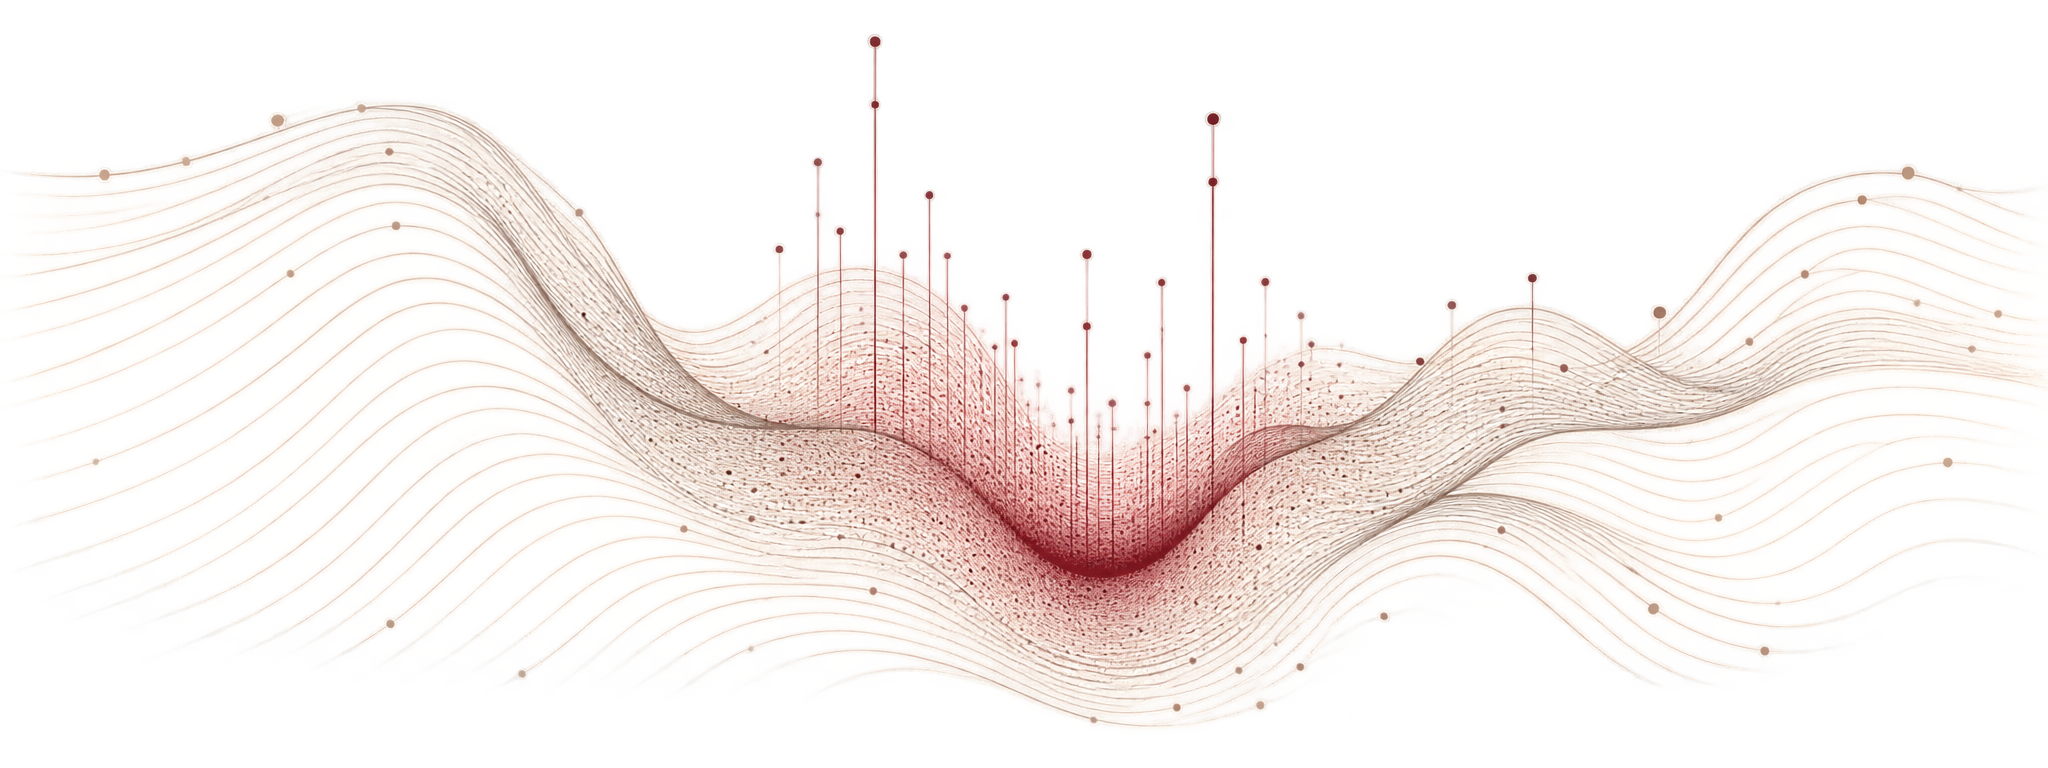
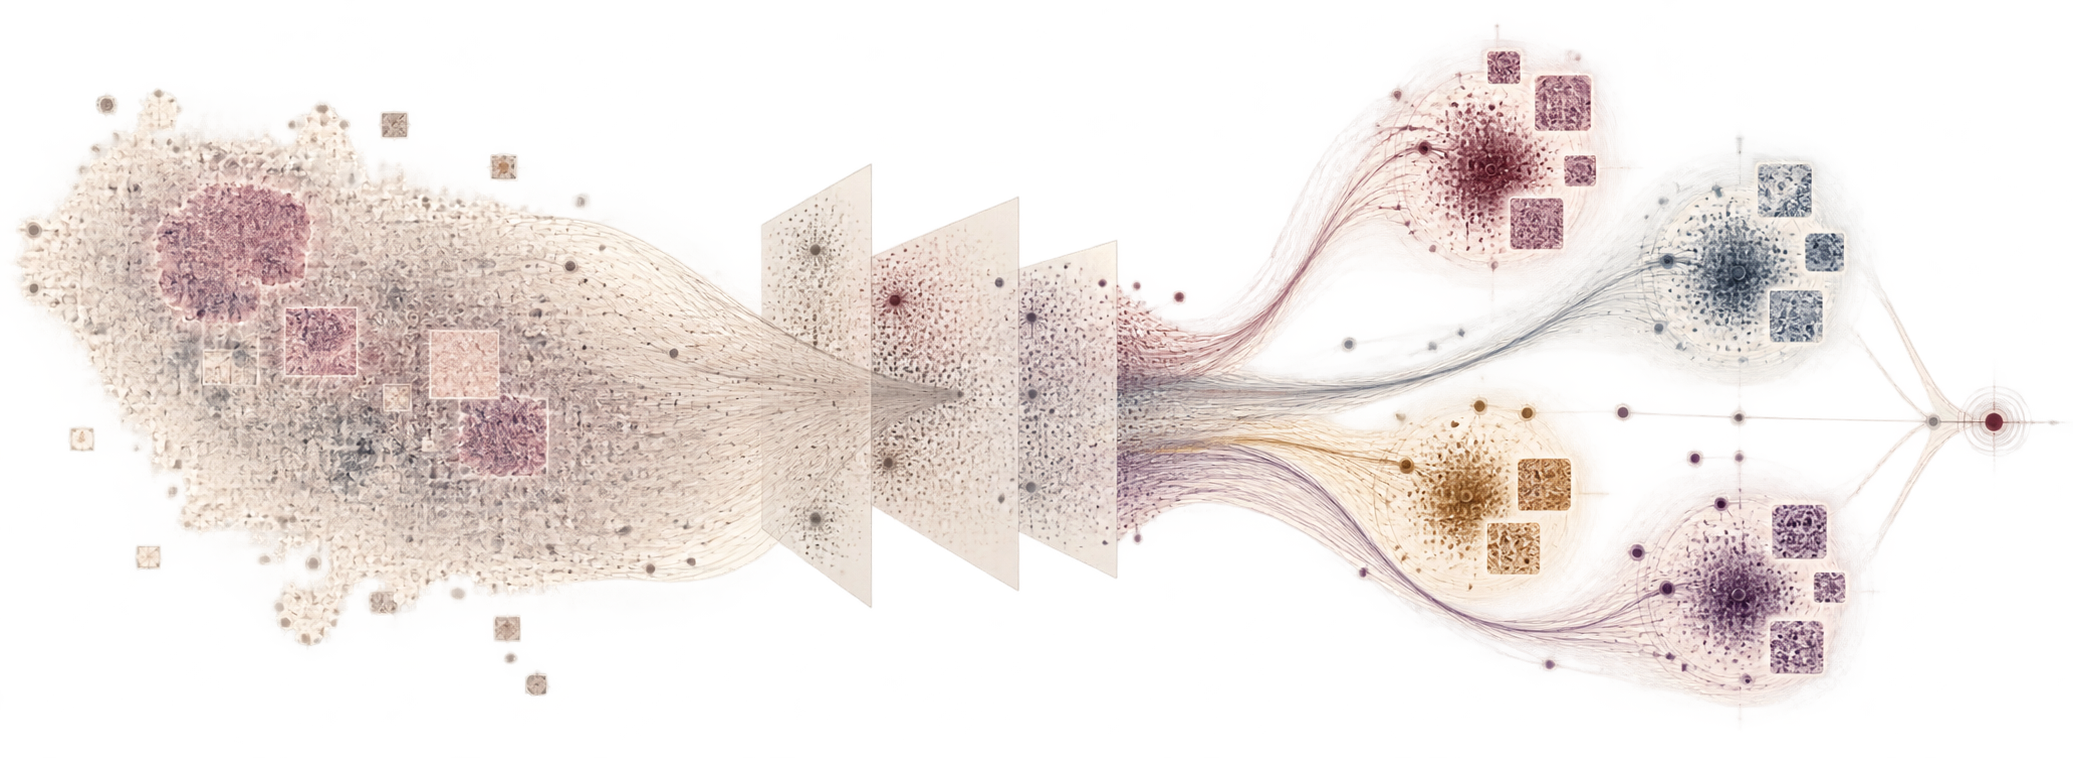
Swap article hero artwork

diff --git a/_posts/2026-01-30-model-scientist.md b/_posts/2026-01-30-model-scientist.md
@@ -3,12 +3,13 @@ title: "The Model as Scientist"
 date: 2026-01-30
 layout: article
 read_time: 7
-hero_art: /assets/notes/2026-01-30-model-scientist/hero.svg?v=2
-hero_alt: "A dense biological signal narrowing into a few interpretable features"
+hero_art: /assets/notes/2026-01-30-model-scientist/model-as-scientist-hero.png?v=1
+hero_art_type: image
+hero_alt: "A dense biological signal resolving into a layered scientific representation"
 categories: [notes]
 excerpt: "By opening black-box bio foundational model, researchers discovered that AI relies on DNA fragment lengths to detect Alzheimer's, a signal that outperformed traditional biomarkers (methylation) and proved AI can teach us new biology."
 header:
-  teaser: /assets/notes/2026-01-30-model-scientist/ai-scientist-thumb.png
+  teaser: /assets/notes/2026-01-30-model-scientist/model-as-scientist-hero.png
 tldr: "By opening black-box bio foundational model, researchers discovered that AI relies on DNA fragment lengths to detect Alzheimer's, a signal that outperformed traditional biomarkers (methylation) and proved AI can teach us new biology."
 ---
 

diff --git a/_posts/2026-01-27-concept-based-interpretability-in-medical-ai.md b/_posts/2026-01-27-concept-based-interpretability-in-medical-ai.md
@@ -3,7 +3,7 @@ title: "Concept-Based Interpretability in Medical AI"
 date: 2026-01-27
 layout: article
 read_time: 8
-hero_art: /assets/notes/2026-01-27-concept-based-interpretability-in-medical-ai/concept-based-interpretability-hero.png?v=1
+hero_art: /assets/notes/2026-01-27-concept-based-interpretability-in-medical-ai/concept-based-interpretability-hero.png?v=2
 hero_art_type: image
 hero_alt: "A layered representation field resolving into distinct concept structures"
 categories: [notes]
